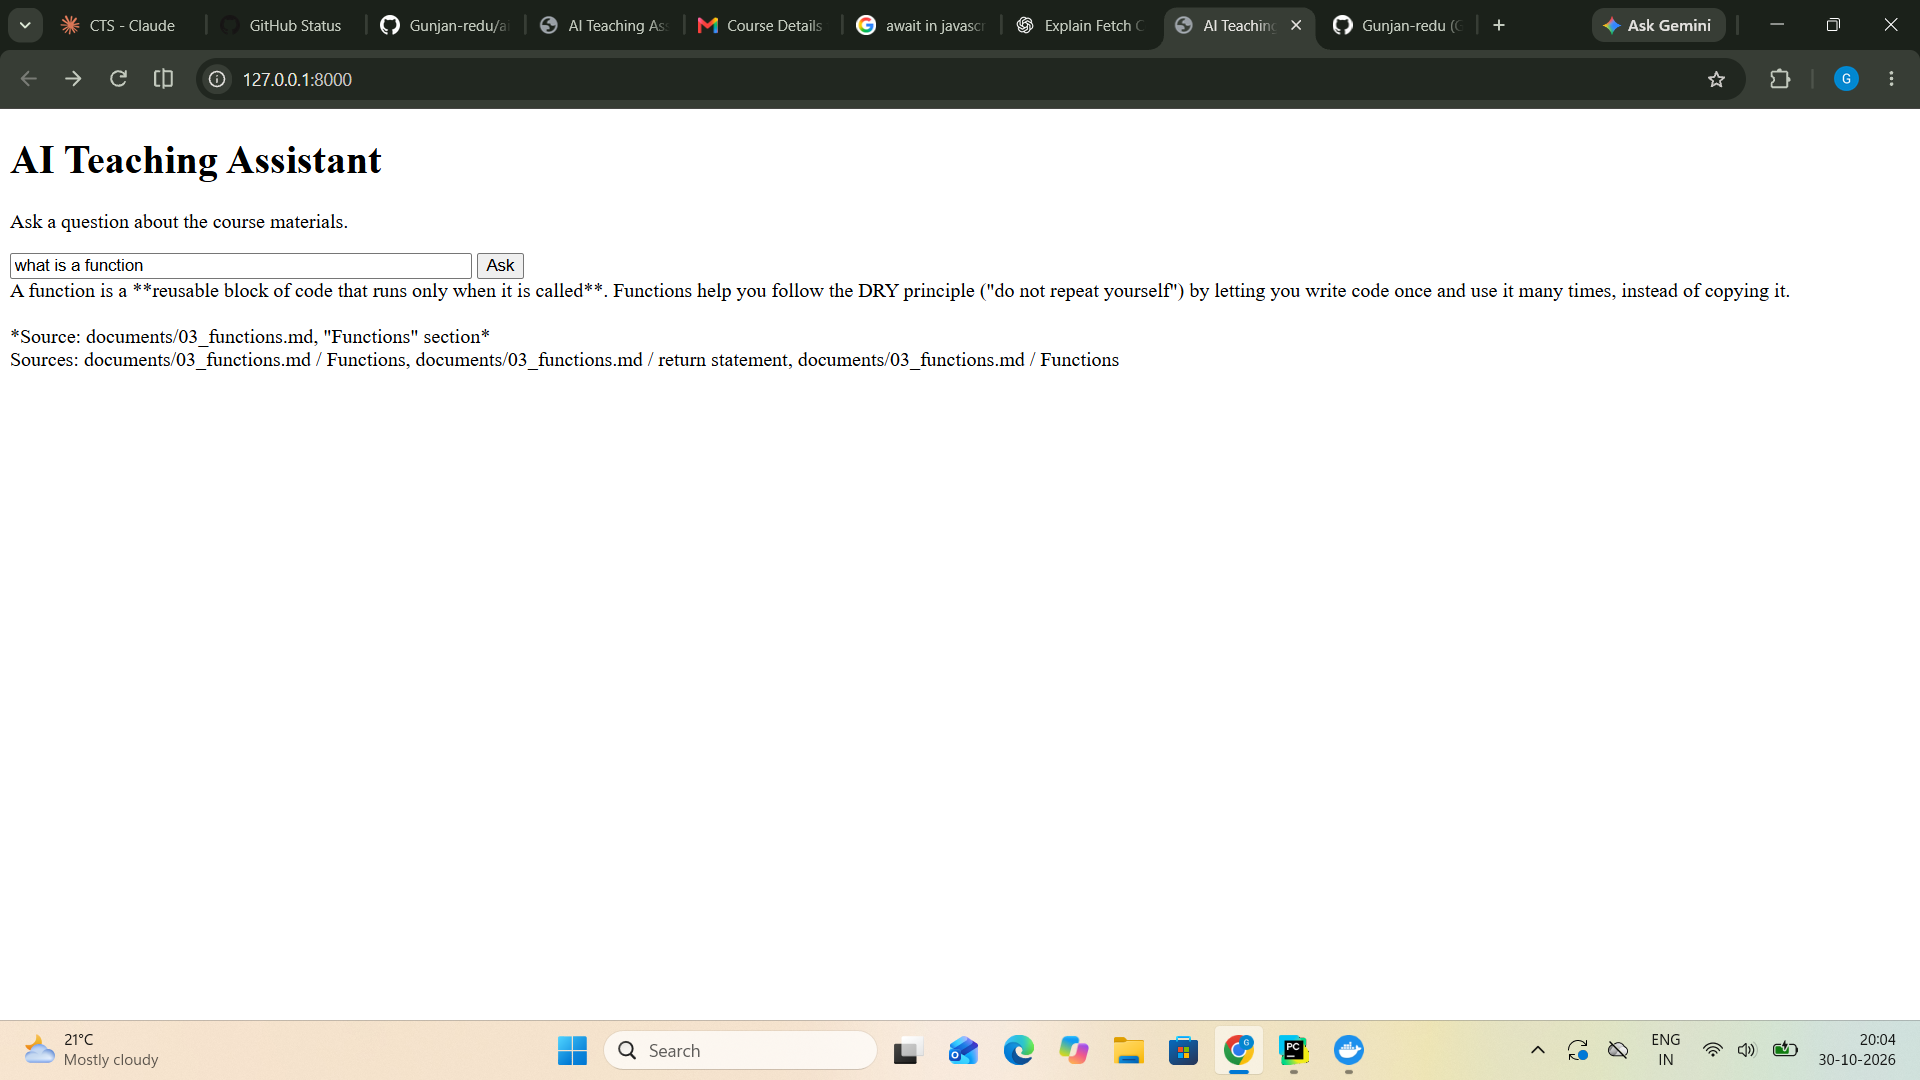
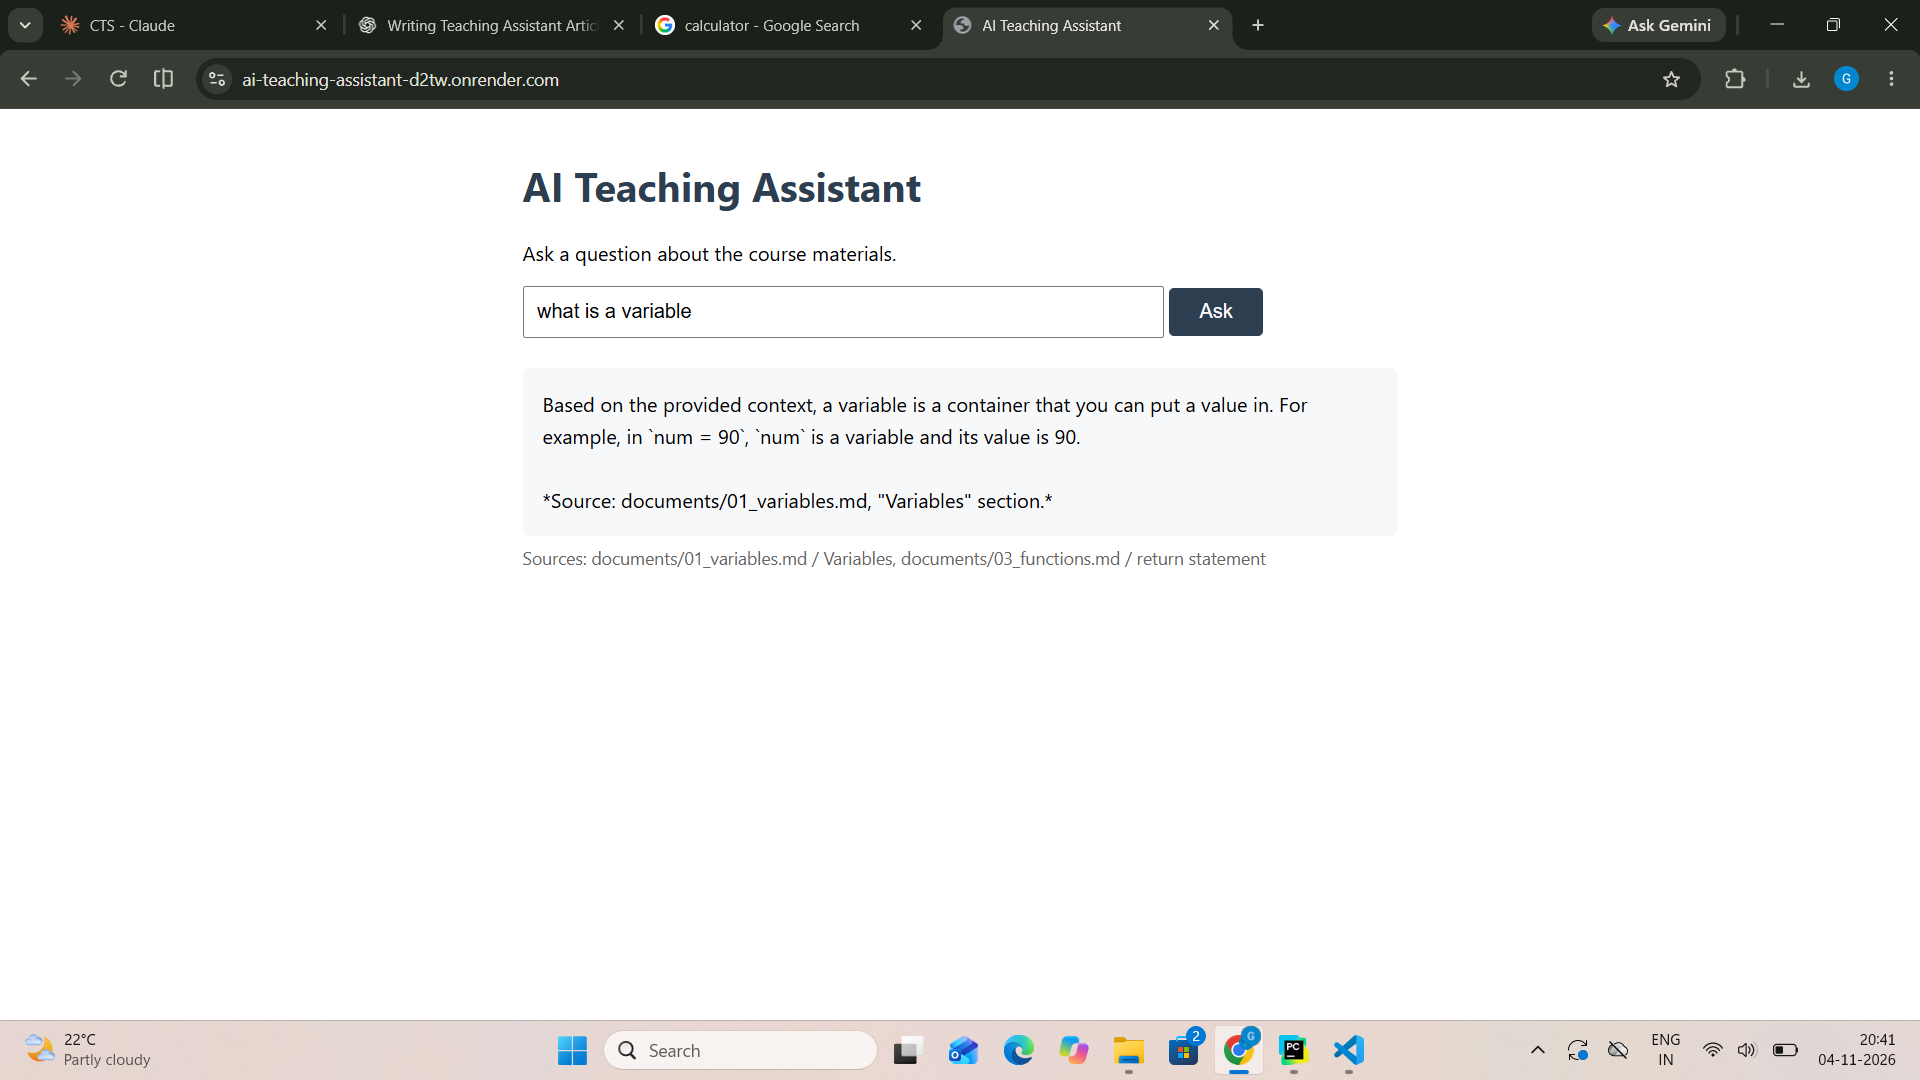
notes: blog draft complete

diff --git a/notes/blog-draft.md b/notes/blog-draft.md
@@ -1,55 +1,162 @@
-# I built an AI teaching assistant and it found holes in my own teaching docs
-
-## The hook
-I am a coding teacher, I have been teaching coding for quite a few years now. Since I am trying to transition
-into a career in IT, I am trying to gain alot of new skills. Part of this skill learning process was to make RAG 
-assistant which can answer to questions about python concepts(variables, loops, functions). I prepared all the documents myself
-(not scraped from the internet). The first question I asked the assistant was what is a function, although it answered
-correctly telling me how a function works and what are the different ways of using a function python,
-it also mentioned that the context doesn't include a definition of a function, which was correct. I hadn't mentioned
-what exactly a function anywhere in the document.
-
-
-## What I built, in four beats
-- (corpus → chunks+vectors → retrieval+threshold → Claude with citations; live URL)
-
-## What I built, in four beats
-
-The process began by building the corpus, which means I had to type all the
-documents about functions, variables and loops myself. These documents are
-carefully written in beginner-friendly language. I intentionally simplify the
-concept explanations because, from my experience of teaching students, that is
-the best way to explain things to a kid who is probably learning Python as
-their very first programming language.
-
-After building the corpus, the next step was to divide it into chunks. I
-decided to chunk the corpus by heading + paragraph, with a merge pass that
-re-attaches code blocks to their explanations — so retrieval never returns
-code without its context. These chunks were then converted into 1024-length
-vectors with the help of Voyage AI and stored in the database along with their
-heading and document name.
-
-When we receive a question from the user, we use Voyage AI again to get its
-vector, then compare this vector to all the stored vectors and get the top
-three chunks whose vectors are closest to it. If
-even the nearest chunk is farther than 0.93, we consider that we don't have
-what they are looking for, and stop right there — before any LLM call.
-
-Otherwise, the top three chunks' text — never the vectors themselves — goes
-to Claude, which prepares a response for the user.
-This response is then rendered to the UI with sources and citations.
+# I built an AI teaching assistant, and it found gaps in my own teaching material
 
 
 
+I've been teaching coding for quite a few years now. Since I'm also trying to transition into a career in IT, I've been working on learning new skills and building projects along the way.
+
+One of those projects was a RAG-based teaching assistant that could answer questions about Python concepts like variables, loops and functions.
+
+I wrote all the documents myself. They weren't scraped from the internet. I wanted the assistant to work with the same beginner-friendly explanations I use when teaching students.
+
+The first question I asked it was: "What is a function?"
+
+It gave me a correct explanation of how functions work and the different ways of using them in Python. But it also pointed out something interesting: the provided context didn't actually contain a definition of a function.
+
+And it was right. I hadn't written one anywhere in my documents.
+
+## What I built, in four steps
+
+The basic flow looks like this:
+
+Corpus → Chunks and embeddings → Retrieval and threshold check → Claude generates an answer with citations.
+
+The process started with building the corpus. I had to write all the documents about functions, variables and loops myself.
+
+I tried to keep the explanations simple and beginner-friendly. From my experience teaching students, I've found that this works best, especially when someone is learning Python as their first programming language.
+
+Once the documents were ready, I had to split them into smaller chunks.
+
+I decided to use a heading + paragraph approach, along with a merge pass that reattaches code blocks to their explanations. I didn't want the retrieval system returning a piece of code without the explanation that goes with it.
+
+I then converted these chunks into 1024-dimensional vectors using Voyage AI and stored them in my PostgreSQL database along with their document names and headings.
+
+When a user asks a question, I send it through Voyage AI as well to generate its embedding. I then compare it against the stored vectors and retrieve the three closest chunks.
+
+I also added a threshold check. If even the closest chunk has a distance greater than 0.93, the system stops there, without making a call to Claude.
+
+Otherwise, the text from those three chunks (not the vectors themselves) is passed to Claude, which uses that context to generate an answer.
+
+Finally, the answer is displayed on the frontend along with its sources and citations.
 
 ## The audit story
-- (before-answer vs after-answer; the doc enrichment loop)
+
+As I mentioned earlier, my first question to the assistant was "What is a function?"
+
+The answer did two things. It explained functions correctly using the available context, but it also pointed out that the context didn't contain an actual definition of a function.
+
+I found this particularly interesting.
+
+I wouldn't call myself an expert, but I've been teaching these concepts for years. And I think this is something that can happen when you've been teaching the same subject for a long time.
+
+Sometimes, we assume that beginners already know certain things because they seem too obvious to us.
+
+That's exactly what I had done.
+
+I had explained the different ways of using functions, how they work and how to write them. Somewhere along the way, I assumed that explaining all these things would automatically help a student understand what a function actually is.
+
+But I had never explicitly defined it in my document.
+
+The reason the assistant caught this was quite simple: I had instructed it to answer ONLY using the provided context.
+
+As a teacher, I automatically fill in gaps when explaining something. The definition of a function is something I probably say at the whiteboard without even thinking about it. So I never noticed that it was missing from my written material.
+
+The assistant couldn't do that. It wasn't allowed to make assumptions, and that made the missing information obvious.
+
+I went back and added a definition:
+
+"In Python, a function is a reusable block of code that executes only when called."
+
+But that wasn't the end of it. While reviewing the documents, I found a few more things that needed attention:
+
+- What happens when a function doesn't return anything? (The whole `None` surprise.)
+- What's the difference between parameters and arguments?
+- Some examples had code but didn't show what the actual output would look like.
+
+I fixed these as well.
+
+Then I just had to run `python store.py` to chunk the documents again, generate new embeddings and store everything in the database.
+
+When I asked "What is a function?" again, the assistant now started with an actual definition.
+
+What I liked most about this was that the project became more than just a tool for answering questions about my course material. It also helped me improve the material itself.
+
+And I can repeat this process whenever I want: ask questions, see where the assistant struggles or points out missing information, update the documents and run the ingestion process again.
+
+In a way, the assistant ended up auditing the very material it was built to teach.
 
 ## The threshold story
-- (0.853 vs 0.852 — the numbers; why distance can't judge relevance)
+
+One thing I struggled with while building this project was deciding on the right threshold for rejecting questions that were outside the scope of my documents.
+
+Initially, I assumed that questions my documents could answer would have a smaller distance from the stored chunks than questions they couldn't answer.
+
+But when I started testing, the results weren't what I expected.
+
+For example:
+
+- "What is a float?" (a topic covered in my documents) scored 0.853.
+- "What is a dictionary?" (a topic not covered in my documents) scored 0.852.
+
+The distances were almost identical.
+
+However, when I tried something completely unrelated, like "Who is the PM of India?", the distance was 0.957.
+
+This made me realise something about how embeddings work in this particular setup.
+
+Questions about floats and dictionaries are both Python-related questions. Even though my documents didn't cover dictionaries, the embedding model still placed that question close to my Python-related content.
+
+In other words, being semantically close doesn't necessarily mean that my documents contain the answer.
+
+I had seen tutorials suggesting thresholds around 0.78, but using that value would have rejected a question about floats that my documents could actually answer.
+
+After experimenting with my own data, I settled on 0.93.
+
+I deliberately kept it quite high because I didn't want to reject questions just because their nearest chunks weren't particularly close.
+
+This also changed how I thought about the threshold.
+
+Its main purpose isn't to decide whether a question is relevant or not. It's more of a first-level filter to catch obviously unrelated questions before making an API call to Claude.
+
+Anything that sounds like a Python-related question gets a chance to go through. Claude then reads the retrieved chunks and decides whether there's enough information in the context to answer.
+
+So, the actual decision about whether the answer exists in my documents happens at the LLM stage, not through the distance threshold.
 
 ## Deployment day
-- (DB_Port and Linux; Render's 30-day DB discovery; the Tokyo swap)
+
+For deployment, I initially planned to use Render's free tier for both the application and the database.
+
+But while going through their pricing page, I noticed something important: free-tier databases are deleted after 30 days.
+
+I didn't want to risk losing all the documents and embeddings I'd worked on, so I decided to split the deployment.
+
+The application is hosted on Render, while the PostgreSQL database (with pgvector) is hosted on Supabase.
+
+Another interesting thing I learned during deployment was how differently Windows and Linux handle environment variables.
+
+My first deployment on Render failed because I was using an environment variable called `DB_Port`.
+
+It had been working perfectly fine on my Windows machine for weeks. But Windows environment variables are case-insensitive, whereas Linux environment variables are case-sensitive.
+
+So `DB_Port` and `DB_PORT` weren't treated as the same thing.
+
+The fix was just one character, but it took down the entire production deployment.
+
+After fixing it, all I had to do was push the changes to GitHub. Render automatically picked them up and redeployed the application.
+
+This was also when I realised how useful it was to have all my database configuration handled through environment variables.
+
+For example, when I wanted to point the application to a database in Tokyo, I only had to make a small change in my configuration file. I didn't have to change the application code at all.
 
 ## What's live now
-- (URL, screenshot, what I'd do next)
+
+The teaching assistant is now deployed, and I can ask it questions about the Python concepts covered in my documents.
+
+[https://ai-teaching-assistant-d2tw.onrender.com/](https://ai-teaching-assistant-d2tw.onrender.com/)
+
+![AI teaching assistant](assets/demo-screenshot.png)
+
+[Github repo](https://github.com/Gunjan-redu/ai-teaching-assistant)
+There are still things I'd like to improve, especially around retrieval quality and testing how well the assistant handles questions that aren't covered in the documents.
+
+But this project taught me quite a bit, not just about RAG, embeddings, vector databases and deployment, but also about something I hadn't expected: how building a tool to teach something can sometimes reveal gaps in the way you teach it yourself.
+
